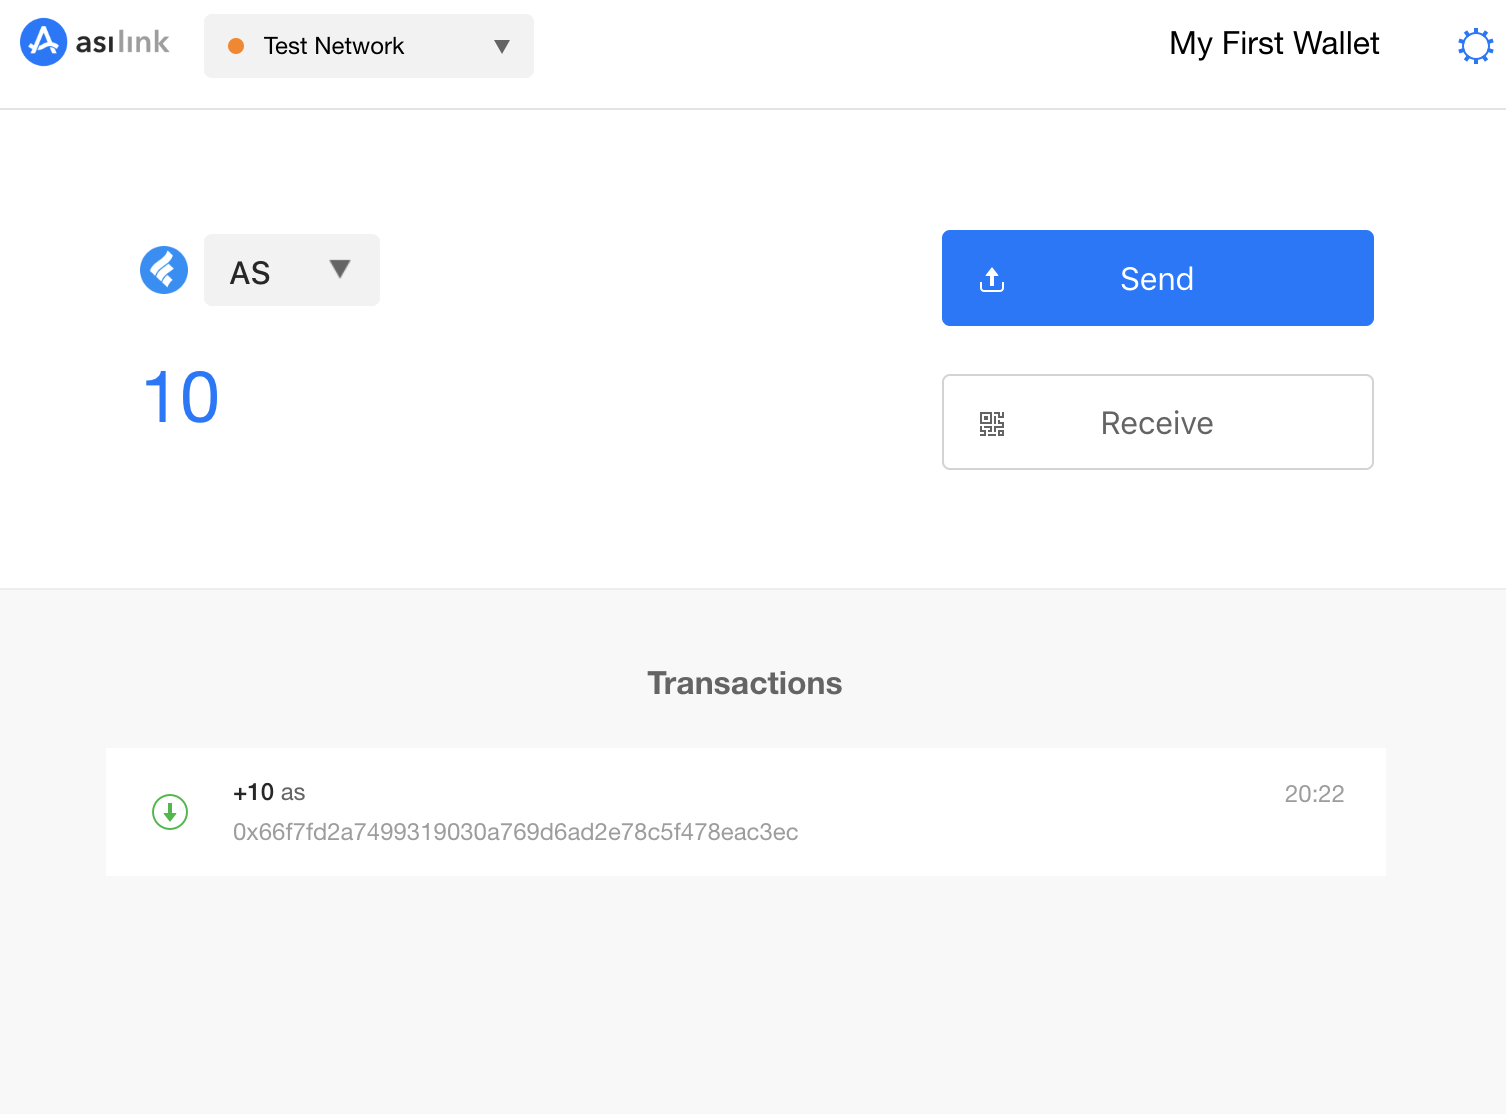
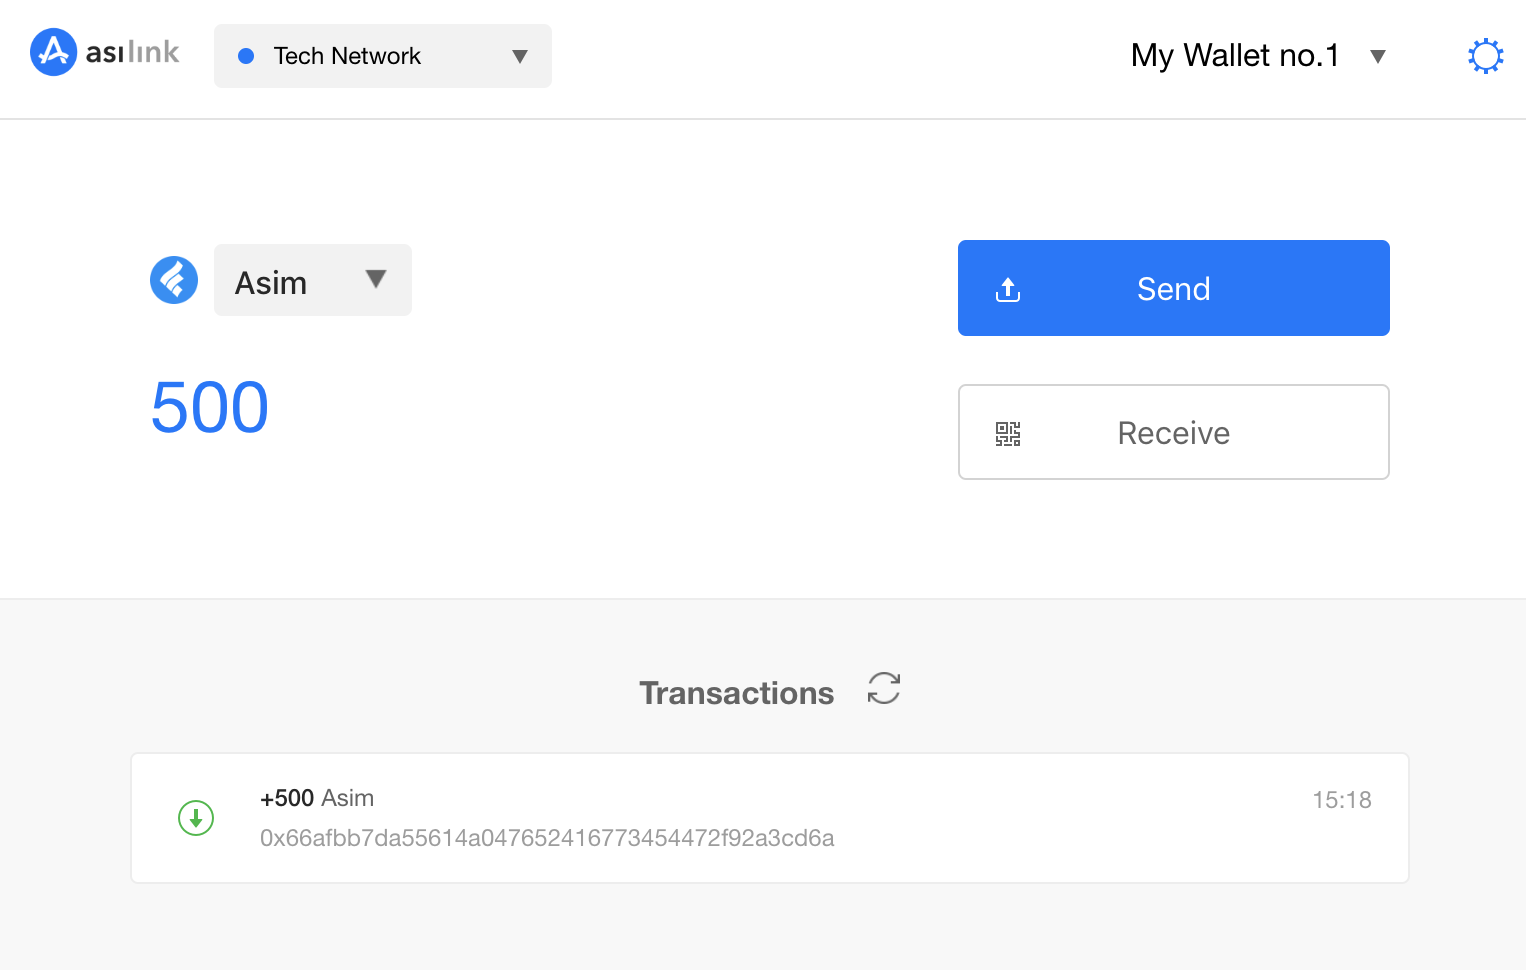
update asilink.md

diff --git a/testnet-tutorial/asilink.md b/testnet-tutorial/asilink.md
@@ -4,7 +4,7 @@ This document briefly describes the use of the AsiLink wallet. AsiLink is the of
 
 ## Download and Install
 
-[Download](https://asimov.network/wallet) AsiLink plugin wallet from the Asimov official website, open the Chrome browser extensions (chrome://extensions/) page, drag in the newly downloaded wallet crx file (after unzip) for installation. Verify that the plugin wallet is installed successfully, as shown below:
+[Download](https://asimov.tech/wallet) AsiLink plugin wallet from the Asimov official website, open the Chrome browser extensions page (chrome://extensions/), unzip and drag in the **asilink.crx** file to install. Verify the wallet is installed successfully, as shown below:
 
 ![](./img/asilink-installed.png)
 
@@ -28,11 +28,13 @@ Verify the mnemonic words.
 
 Click the ```Confirm``` button to create the wallet.
 
+You can also import an existing wallet by providing mnemonic words saved before. Asilink supports multiple wallets and you can switch between them easily.
+
 ## Obtain Asim from Faucet
 
-After the wallet is created successfully, switch to the Dev1 Network or Test Network. Initially there are no assets. Go to [faucet](https://ide.asimov.work/#/receive) page to get some test Asim. Input the wallet address created above to receive some test Asim.
+After the wallet is created successfully, switch to the Test Network. Initially there are no assets. Go to [IDE faucet](https://ide.asimov.tech/#/faucet) page to get some test Asim. Input the wallet address created above to receive some test Asim.
 
-![](./img/faucet.png)
+![](./img/asilink-faucet.png)
 
 Open AsiLink to confirm the test Asim is received.
 
@@ -40,7 +42,9 @@ Open AsiLink to confirm the test Asim is received.
 
 ## Transfer
 
-Click the ```Send``` button on AsiLink to open the transfer page. Input the target address and amount, click ```Confirm and Send```, then input the user password to create the transaction.
+Click the ```Send``` button on AsiLink to open the transfer page. Input the target address and amount, click ```Confirm and Send```, then input the user password to submit the transaction.
+
+> The default transaction fee in TestNet is 0.02 Asim. You can toggle "Advanced Options" to set a different value you perfer. The higher transaction fee you pay, the sooner the transaction will be confirmed on the chain.
 
 ![](./img/asilink-transfer.png)
 
